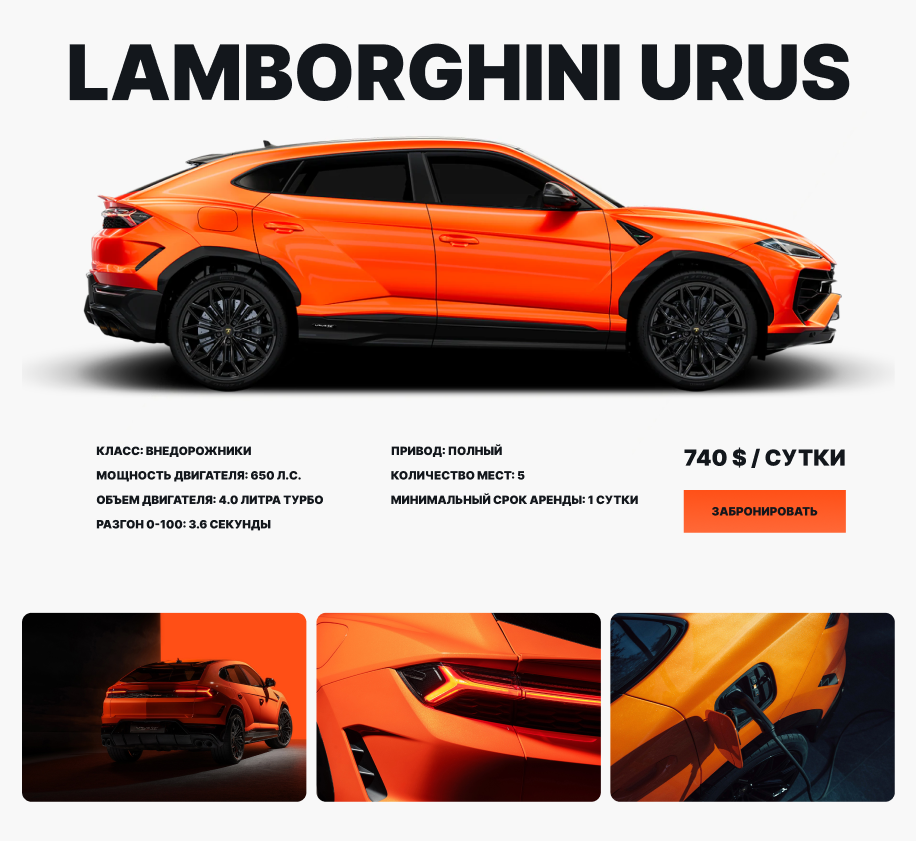
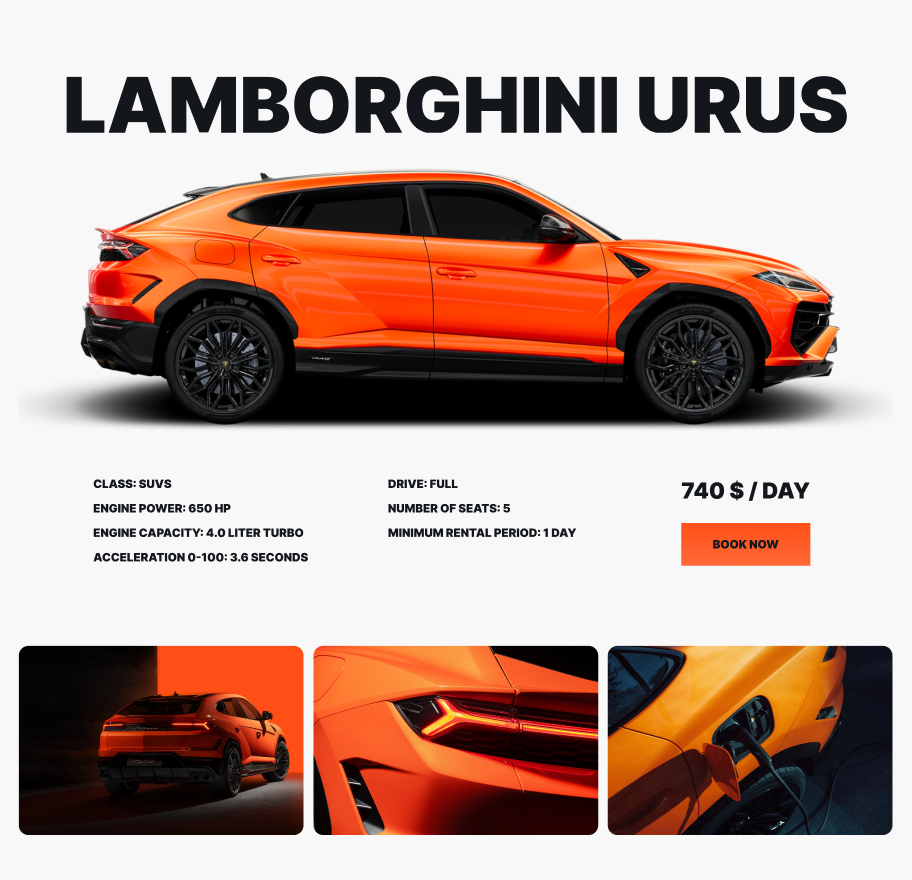
urus

diff --git a/index.html b/index.html
@@ -4,7 +4,7 @@
     <meta charset="UTF-8">
     <meta name="viewport" content="width=device-width, initial-scale=1.0">
     <meta http-equiv="X-UA-Compatible" content="ie=edge">
-    <title>Urus на прокат</title>
+    <title>Urus for hire</title>
     <link rel="preconnect" href="https://fonts.googleapis.com">
 <link rel="preconnect" href="https://fonts.gstatic.com" crossorigin>
 <link href="https://fonts.googleapis.com/css2?family=Inter:ital,opsz,wght@0,14..32,900;1,14..32,900&display=swap" rel="stylesheet">
@@ -29,7 +29,7 @@
             <div class="header__content">
                 <h1 class="title">URUS</h1>
                 <img class="header__images" src="images/urus.png" alt="">
-                <h2 class="subtitle">на прокат</h2>
+                <h2 class="subtitle">for hire</h2>
             </div>
         </div>
     </header>
@@ -42,39 +42,39 @@
             <div class="info__content">
                 <dl class="info__list">
                 <div class="info__list-line">
-                <dt>Класс: </dt>
-                <dd>Внедорожники</dd>
+                <dt>Class: </dt>
+                <dd>SUVs</dd>
                 </div>
                 <div class="info__list-line">
-                <dt>Мощность двигателя: </dt>
-                <dd>650 л.с.</dd>
+                <dt>Engine power: </dt>
+                <dd>650 l.s.</dd>
                 </div>
                 <div class="info__list-line">
-                <dt>Объем двигателя: </dt>
-                <dd>4.0 литра турбо</dd>
+                <dt>Engine size: </dt>
+                <dd>4.0 liter turbo</dd>
                 </div>
                 <div class="info__list-line">
-                <dt>Разгон 0-100: </dt>
-                <dd>3.6 секунды</dd>
+                <dt>Overclocking 0-100: </dt>
+                <dd>3.6 seconds</dd>
                 </div>
                 <div class="info__list-line">
-                <dt>Привод: </dt>
-                <dd>полный</dd>
+                <dt>Drive: </dt>
+                <dd>full</dd>
                 </div>
                 <div class="info__list-line">
-                <dt>Количество мест: </dt>
+                <dt>Number of seats: </dt>
                 <dd>5</dd>
                 </div>
                 <div class="info__list-line">
-                <dt>Минимальный срок аренды: </dt>
-                <dd>1 сутки</dd>
+                <dt>Minimum rental period: </dt>
+                <dd>1 day</dd>
                 </div>
         </dl>
             <div class="order__box">
                 <p class="price">
-                    740 $ / сутки
+                    740 $ / day
                 </p>
-                <button class="order">ЗАБРОНИРОВАТЬ</button>
+                <button class="order">BOOK NOW</button>
             </div>
             </div>
             <div class="info__gallery">
@@ -86,7 +86,7 @@
     </section>
     <div class="color">
         <p class="color__text">
-            Выбери цвет
+            Choose a color
         </p>
         <div class="color__gallery">
             <img class="color__gallery-start" src="images/color-g-1.jpg" alt="">
@@ -111,32 +111,58 @@
             <img class="color__gallery-end" src="images/color-g-2.jpg" alt="">
         </div>
     </div>
+    <section class="info-page">
+        <div class="infop-text1">
+            <h1>why choose us?</h1>
+        </div>
+        <div class="infop-textp">
+            <div class="infop-div">
+            <p>1. Some of the best prices</p>
+            <p>2. Large quantity</p>
+            <p>3. All car colors</p>
+            </div>
+            <div class="infop-images">
+                <img src="images/infop-2.jpg" class="infop-image1" style="vertical-align: middle;">
+            </div>
+            </div>
+            <div class="infop-images">
+                <img src="images/infop-1.png" class="infop-image2" style="vertical-align: middle;">
+        </div>
+        <div class="infop-text2">
+        <dil class="infop-dil">
+            <div class="infop-div1">
+            <p>4. Fast registration</p>
+            <p>5. Rental period from one day</p>
+            </div>
+        </dil>
+        </div>
+    </section>
     <section class="contacts">
         <div class="container">
             <h2 class="contacts__title">
-                Заброниовать автомобиль Lamborghini Urus
+                Book a car Lamborghini Urus
             </h2>
             <div class="contacts__box">
                 <div class="contacts__info">
-                    <p class="contacts__headtext">Обязательный страховой взнос: 2000 $</p>
-                    <p class="contacts__headtext">личный водитель: по запросу</p>
-                    <p class="contacts__text">Мы свяжемся с вами в течение часа для уточнения деталей. 
-                    Либо забронируйте автомобиль по номеру:</p>
+                    <p class="contacts__headtext">Mandatory insurance premium: 2000 $</p>
+                    <p class="contacts__headtext">personal driver: on request</p>
+                    <p class="contacts__text">We will contact you within an hour to clarify details. 
+                        Or book a car by number:</p>
                     <a class="phone" href="tel:999-99-99">999-99-99</a>
-                    <p class="contacts__text-rules">Нажимая кнопку «Подтвердить бронь» вы соглашаетесь 
-                       с условиями обработки данных</p>
+                    <p class="contacts__text-rules">By clicking the “Confirm booking” button you agree 
+                        with data processing conditions</p>
                 </div>
                 <form class="contacts__form form" action="">
-                    <input class="form__input" type="text" placeholder="Ваше имя">
-                    <input class="form__input" type="text" placeholder="Номер телефона">
-                    <input class="form__input" type="text" placeholder="Город">
-                    <button class="order form__order" type="submit">Заброниовать</button>
+                    <input class="form__input" type="text" placeholder="Your name">
+                    <input class="form__input" type="text" placeholder="Phone number">
+                    <input class="form__input" type="text" placeholder="City">
+                    <button class="order form__order" type="submit">Book now</button>
                 </form>
             </div>
         </div>
     </section>
     <footer class="footer">
-        <a class="footer__link" href="#">Политика конфиденциальности</a>
+        <a class="footer__link" href="#">Privacy Policy</a>
     </footer>
     <script src="main.js"></script>
 </body>

diff --git a/style.css b/style.css
@@ -480,4 +480,133 @@ body {
     .form__order {
         width: 100%;
     }
+} 
+
+.info-page {
+    height: 1450px;
 }
+
+.infop-text1 {
+    text-align: center;
+    text-transform: uppercase;
+    font-size: 110px;
+    font-family: "Inter", sans-serif;
+    margin-top: 80px;
+}
+
+.infop-image1 {
+ width: 730px;
+ height: 550px;
+ margin: 1 auto auto;
+ margin-left: 360px;
+ float: right;
+}
+
+.infop-image2 {
+ width: 700px;
+ height: 550px;
+ margin: 1 auto auto;
+ float: left;
+}
+
+.infop-text2 {
+    margin-top: 160px;
+    display: flex;
+}
+
+.infop-div {
+ font-size: 50px;
+ margin-top: 145px;
+ margin-left: 75px;
+ float: left;
+}
+
+.infop-div1 {
+ font-size: 50px;
+ margin-top: 80px;
+ margin-left: 345px;
+}
+
+.infop-textp {
+    margin-top: 160px;
+    display: flex;
+}
+
+@media (max-width: 1820px) {
+    .infop-text1 {
+        font-size: 70px;
+    }
+}
+
+@media (max-width: 1790px) {
+    .infop-div {
+        font-size: 30px;
+    }
+}
+
+@media (max-width: 1500px) {
+    .infop-div {
+        font-size: 25px;
+    }
+}
+
+@media (max-width: 1200px) {
+    .infop-text1 {
+        font-size: 60px;
+    }
+}
+
+@media (max-width: 1630px) {
+    .infop-div {
+        font-size: 25px;
+    }
+}
+
+@media (max-width: 1000px) {
+    .infop-text1 {
+        font-size: 50px;
+    }
+}
+
+@media (max-width: 880px) {
+    .infop-text1 {
+        font-size: 40px;
+    }
+    .infop-div {
+        font-size: 20px;
+    }
+}
+
+@media (max-width: 780px) {
+    .infop-div {
+        font-size: 15px;
+    }
+}
+
+@media (max-width: 700px) {
+    .infop-text1 {
+        font-size: 30px;
+    }
+}
+
+@media (max-width: 680px) {
+    .infop-div {
+        font-size: 10px;
+    }
+}
+
+@media (max-width: 580px) {
+    .infop-text1 {
+        font-size: 20px;
+    }
+    .infop-div {
+        font-size: 5px;
+    }
+}
+
+@media (max-width: 330px) {
+    .infop-text1 {
+        font-size: 10px;
+    }
+}
+
